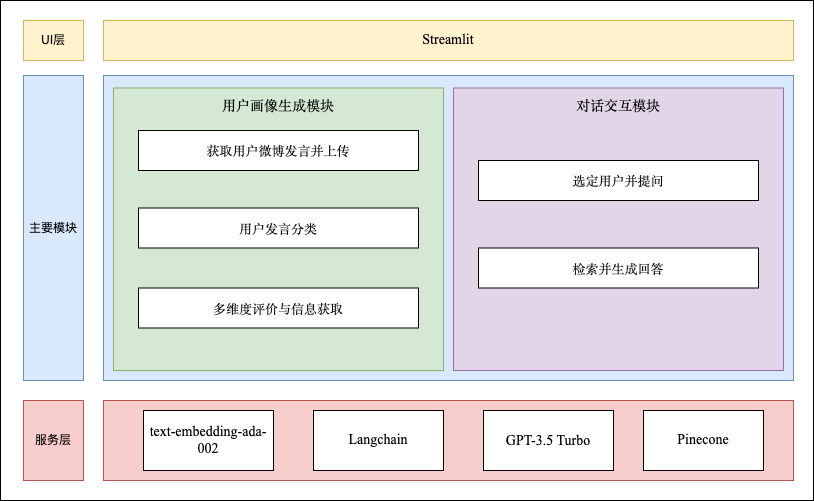
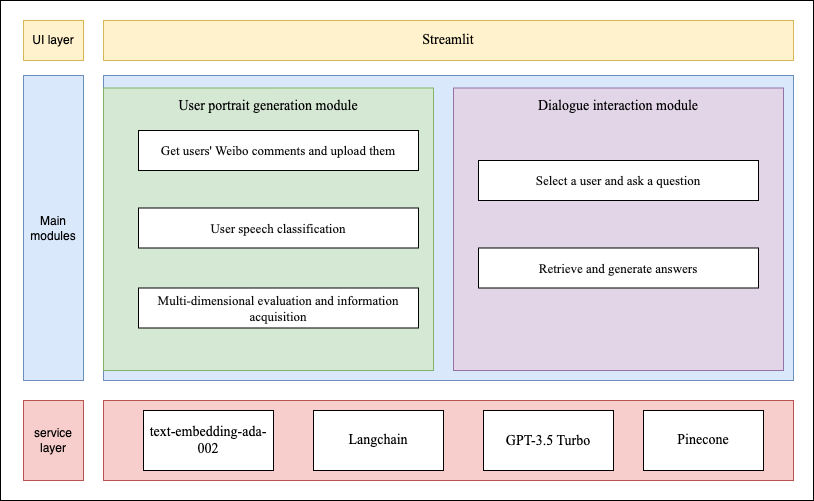
Refine display and add English Intro

diff --git a/README.md b/README.md
@@ -1,11 +1,41 @@
-# My Ongoing ECNU Graduation project
 
-#### Design and Implementation of a User Portrait Analysis and Interaction System Based on Langchain
-![image](https://img.shields.io/badge/Python-3.11-blue.svg) 
+# Design and Implementation of a User Portrait Analysis and Interaction System Based on Langchain
+### (基于Langchain的用户画像分析与交互系统的设计与实现)
+![image](https://img.shields.io/badge/Python-3.11-blue.svg)
 
-![img alt](EchoPersona.jpg)
+---
+### Introduction
 
-Start Command: `"streamlit run Home.py"`
+This system utilizes the **Langchain** framework and Retrieval Augmented Generation (RAG) technology.  
+It aims to create multi-dimensional user profiles from social media interactions, including traits such as personality, psychological state, and interests.   
 
-![img alt](echopersona_ex.png)
+The core components of the system include:
+- User Profiling Generation Module  
+- Dialogue Interaction Module  
+
+They utilize Pinecone's vector database for efficient information retrieval and the GPT-3.5 model for deep analysis using predefined prompts.
+
+### System Architecture
+![img alt](/resources/structure.png)
+
+### User Profiling Generation Module
+This module extracts user statements from social media and categorizes them based on content using structured analysis via Langchain. The categorized data is stored in the Pinecone vector database to facilitate efficient retrieval and usage. Initial data collection is automated using existing open-source Weibo crawler tools, with data subsequently stored in JSON format to lay the foundation for processing and analysis.
+
+### Dialogue Interaction Module
+This module implements the user interface that allows users to submit queries and receive system-generated responses. The responses are generated by the GPT-3.5 Turbo model, employing RAG technology that leverages user profile data stored in the Pinecone database. This module constructs a Q&A interaction system that processes and responds to user inquiries based on their social media data.
+
+### Technical Stack
+- **Frontend**: Developed using the Streamlit library.
+- **Backend**: Employs GPT-3.5 Turbo for processing user statements with backend support from Langchain to optimize data processing pathways. 
+- **Data Vectorization**: Utilizes OpenAI's text-embedding-ada-002 model for text data vectorization, supporting information storage and query operations in the vector database.
+
+This architecture ensures that each component works in concert according to design specifications, effectively capturing user behavior and psychological characteristics on social media platforms.
+
+## Result Display
+Currently, the system only has Chinese language support & result. Maybe I will add English support & result in the future.
+![img alt](resources/jiaohu.png)
+
+![img alt](resources/hu_res0.png)
+![img alt](resources/hu_res1.png)
+![img alt](resources/hu_p412.png)
 
